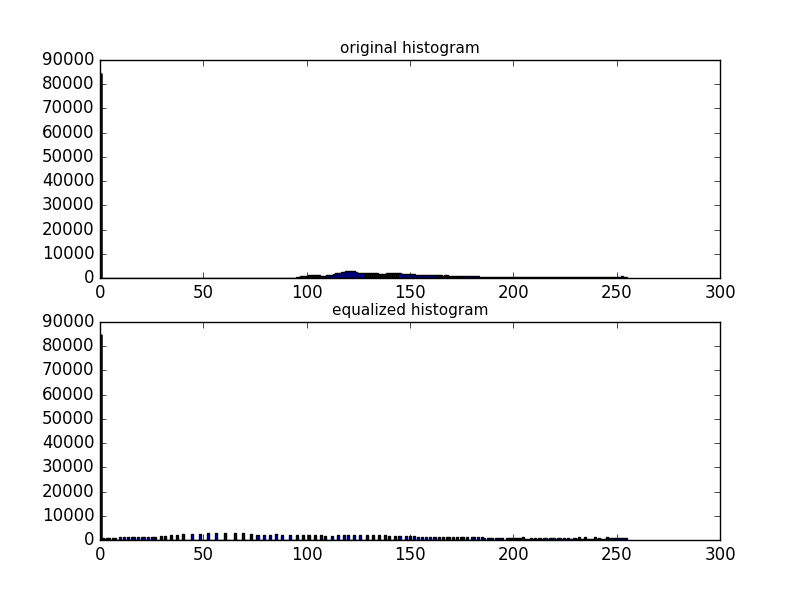
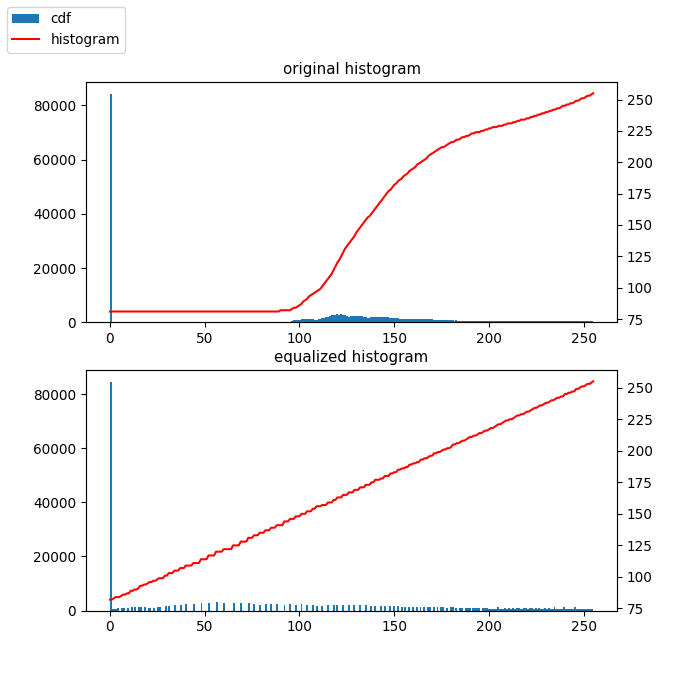
fixed some bugs and add some images

diff --git a/CV_python_toolbox/script/histogram.py b/CV_python_toolbox/script/histogram.py
@@ -16,23 +16,21 @@ def equalized_histogram(imagename):
     result_hist = "../../homework3/result_"+imagename+"_hist.png"
     tool = basic_cv_tool(image_name1)
     img = tool.ImageRead(image_name1)
-    cdf = tool.calcdf(img)
-    plt.plot(cdf, color = 'b')
-    plt.savefig(image_cdf1)
     equ = tool.equalize_histogram(img, result_name1)
-    plt.close()
-    plt.figure()
-    cdf = tool.calcdf(equ)
-    plt.plot(cdf, color = 'b')
-    plt.savefig(result_cdf1)
-    plt.close()
-    plt.figure()
-    p1 = plt.subplot(211)
-    p2 = plt.subplot(212)
-    p1.set_title('original histogram',fontsize = 11)
-    p1.hist(img.ravel(),256,[0,255])
-    p2.set_title('equalized histogram', fontsize = 11)
-    p2.hist(equ.ravel(),256,[0,255])
+    fig = plt.figure(figsize=(7,7),dpi = 98)
+    ax1 = fig.add_subplot(211)
+    ax3 = ax1.twinx()
+    ax2 = fig.add_subplot(212)
+    ax4 = ax2.twinx()
+    ax1.set_title('original histogram',fontsize = 11)
+    ax1.hist(img.ravel(),256,[0,255])
+    cdf = tool.cdf(img)
+    ax3.plot(cdf,color = 'r')
+    ax2.set_title('equalized histogram', fontsize = 11)
+    ax2.hist(equ.ravel(),256,[0,255])
+    cdf2 = tool.cdf(equ)
+    ax4.plot(cdf2,color = 'r')
+    fig.legend(('cdf','histogram'), loc = 'upper left')
     plt.savefig(result_hist)
     plt.close()
 
@@ -46,7 +44,30 @@ def histogram_specialization(imagename, cdf):
     mat = tool.histo_matching(equ, cdf)
     res = np.hstack((img,equ, mat))
     cv2.imwrite(result_name, res)
-    plt.figure(figsize=(7,9),dpi=98)
+    fig = plt.figure(figsize=(7,9),dpi=98)
+    ax1 = fig.add_subplot(311)
+    ax4 = ax1.twinx()
+    ax2 = fig.add_subplot(312)
+    ax5 = ax2.twinx()
+    ax3 = fig.add_subplot(313)
+    ax6 = ax3.twinx()
+    ax1.set_title('original histogram',fontsize = 11)
+    ax1.hist(img.ravel(),256,[0,255])
+    cdf1 = tool.cdf(img)
+    ax4.plot(cdf1,color = 'r')
+    ax2.set_title('equalized histogram', fontsize = 11)
+    ax2.hist(equ.ravel(),256,[0,255])
+    cdf2 = tool.cdf(equ)
+    ax5.plot(cdf2,color = 'r')
+    ax3.set_title('specialized histogram', fontsize = 11)
+    ax3.hist(equ.ravel(),256,[0,255])
+    cdf3 = tool.cdf(mat)
+    ax6.plot(cdf3,color = 'r')
+    fig.legend(('cdf','histogram'), loc = 'upper left')
+    plt.savefig(result_hist)
+    plt.close()
+
+'''
     p1 = plt.subplot(311)
     p2 = plt.subplot(312)
     p3 = plt.subplot(313)
@@ -58,7 +79,7 @@ def histogram_specialization(imagename, cdf):
     p3.set_title('specialized histogram',fontsize = 11)
     plt.savefig(result_hist)
     plt.close()
-    '''
+    
     mat = tool.histo_matching(img, cdf)
     res = np.hstack((img, mat))
     cv2.imwrite(result_name, res)
@@ -79,6 +100,24 @@ def local_histogram(imagename,index):
     result_hist = "../../homework3/local_result_"+imagename+"_hist.png"
     tool = basic_cv_tool(image_name)
     img = tool.ImageRead(image_name)
+    fig = plt.figure(figsize=(7,7),dpi = 98)
+    ax1 = fig.add_subplot(211)
+    ax3 = ax1.twinx()
+    ax2 = fig.add_subplot(212)
+    ax4 = ax2.twinx()
+    ax1.set_title('original histogram',fontsize = 11)
+    ax1.hist(img.ravel(),256,[0,255])
+    cdf1 = tool.cdf(img)
+    ax3.plot(cdf1,color = 'r')
+    fig.legend(('cdf','histogram'), loc = 'upper left')
+    loc = tool.local_histo(img, index)
+    cv2.imwrite(result_name, loc)
+    ax2.set_title('local equalized histogram', fontsize = 11)
+    ax2.hist(loc.ravel(),256,[0,255])
+    cdf2 = tool.cdf(loc)
+    ax4.plot(cdf2,color = 'r')
+    plt.savefig(result_hist)
+    '''
     plt.figure()
     p1 = plt.subplot(211)
     p2 = plt.subplot(212)
@@ -88,7 +127,7 @@ def local_histogram(imagename,index):
     cv2.imwrite(result_name, loc)
     p2.hist(loc.ravel(),256,[0,255])
     p2.set_title('local equalized histogram',fontsize = 11)
-    plt.savefig(result_hist)
+    plt.savefig(result_hist)'''
     plt.close()
     
 
@@ -107,6 +146,24 @@ def hist_segmentation(imagename):
     tool = basic_cv_tool(image_name)
     img = tool.ImageRead(image_name)
     img1, img2 = tool.segmentation(img)
+    cv2.imwrite(result_name1, img1)
+    cv2.imwrite(result_name2, img2)
+    fig = plt.figure(figsize=(7,7),dpi = 98)
+    ax1 = fig.add_subplot(211)
+    ax3 = ax1.twinx()
+    ax2 = fig.add_subplot(212)
+    ax4 = ax2.twinx()
+    ax1.set_title('image 1 histogram',fontsize = 11)
+    ax1.hist(img1.ravel(),256,[0,255])
+    cdf = tool.cdf(img1)
+    ax3.plot(cdf,color = 'r')
+    fig.legend(('cdf','histogram'), loc = 'upper left')
+    ax2.set_title('image 2 histogram', fontsize = 11)
+    ax2.hist(img2.ravel(),256,[0,255])
+    cdf2 = tool.cdf(img2)
+    ax4.plot(cdf2,color = 'r')
+    plt.savefig(result_hist)
+    '''
     plt.figure()
     p1 = plt.subplot(211)
     p2 = plt.subplot(212)
@@ -117,7 +174,7 @@ def hist_segmentation(imagename):
     cv2.imwrite(result_name2, img2)
     p2.hist(img2.ravel(),256,[0,255])
     p2.set_title('image2 histogram',fontsize = 11)
-    plt.savefig(result_hist)
+    plt.savefig(result_hist)'''
     plt.close()
 
 
@@ -126,6 +183,7 @@ if __name__ == '__main__':
     
     #Assignment 1, equalized histogram transformation
     equalized_histogram('lena')
+
     equalized_histogram('elain')
     equalized_histogram('lena1')
     equalized_histogram('lena2')

diff --git a/CV_python_toolbox/src/basic_cv_tool.py b/CV_python_toolbox/src/basic_cv_tool.py
@@ -108,6 +108,14 @@ class basic_cv_tool:
             if temp[i+1]<temp[i]:
                 temp[i+1] = temp[i]
         return temp
+
+    def cdf(self, img):
+        hist, bins = np.histogram(img.flatten(), 256, [0,256])
+        cdf = hist.cumsum()
+        cdf_normalized = cdf*255/cdf.max()
+        cdf = (cdf-cdf[0]) *255/ (cdf[-1]-1)
+        cdf = cdf_normalized.astype(np.uint8)
+        return cdf
     
     def createcdf(self, hist):
         cdf = hist.cumsum()
